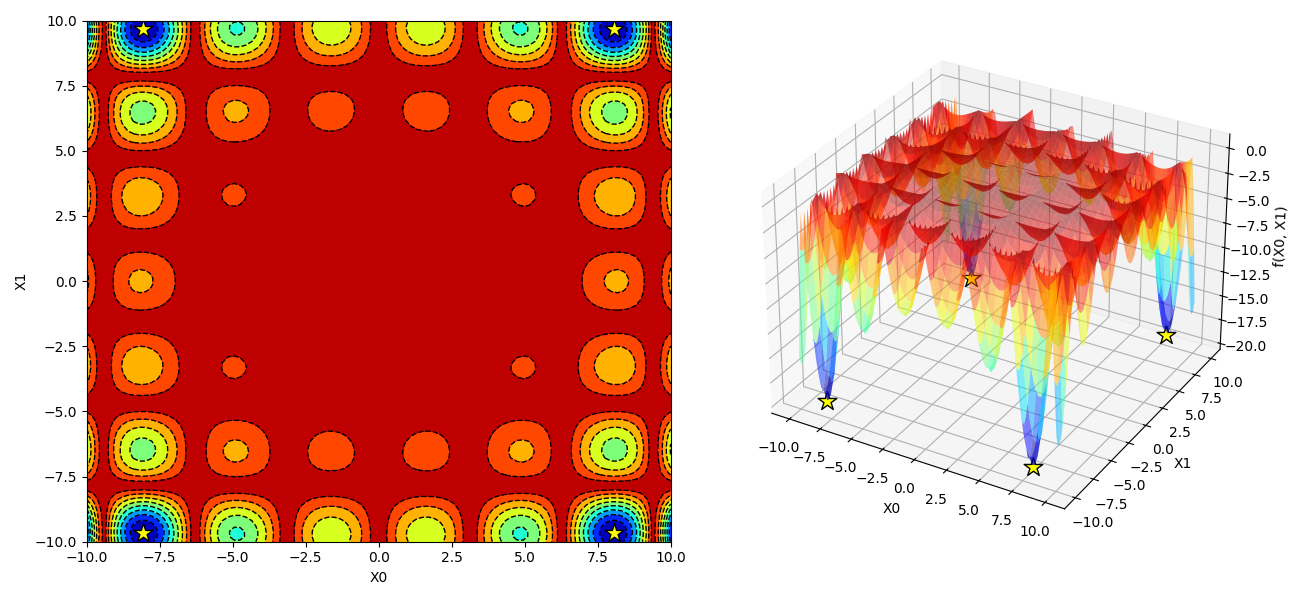
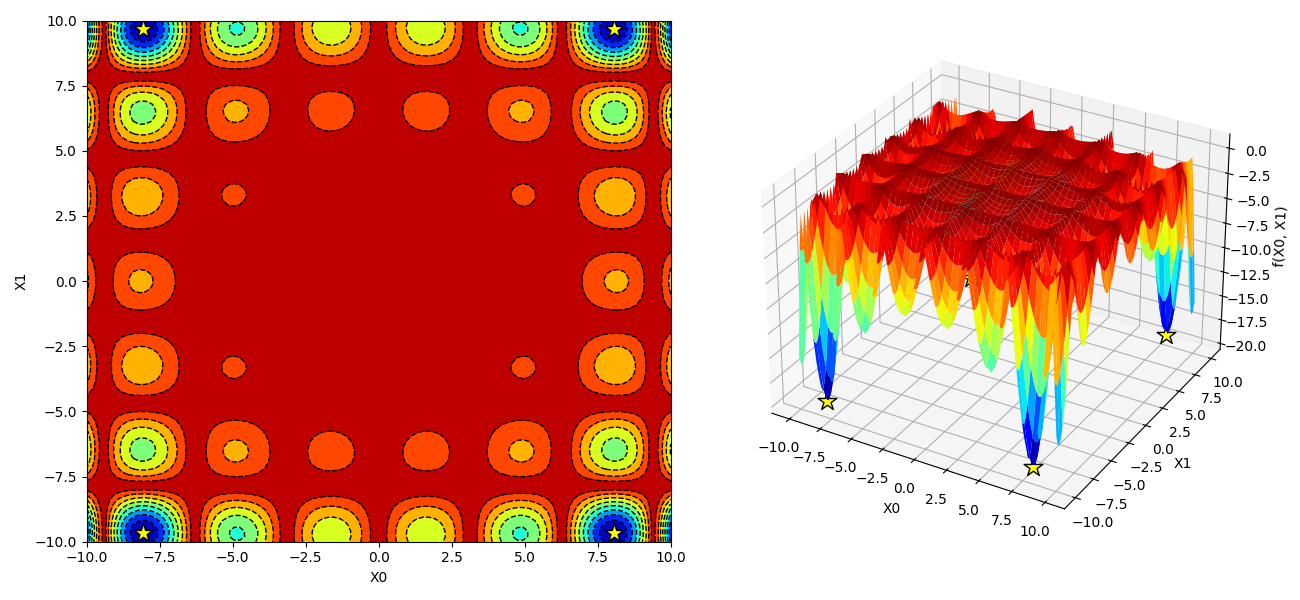
Updated Holder Table image

Changed region(s): [[0.6154, 0.15, 0.9231, 0.78]]

diff --git a/main.py b/main.py
@@ -23,7 +23,7 @@ from src.objective_functions.subclasses.levy import Levy
 if __name__ == "__main__":
 
     # Instantiate objective function
-    DropWave().visualize()
+    HolderTable().visualize()
     
 
     '''
